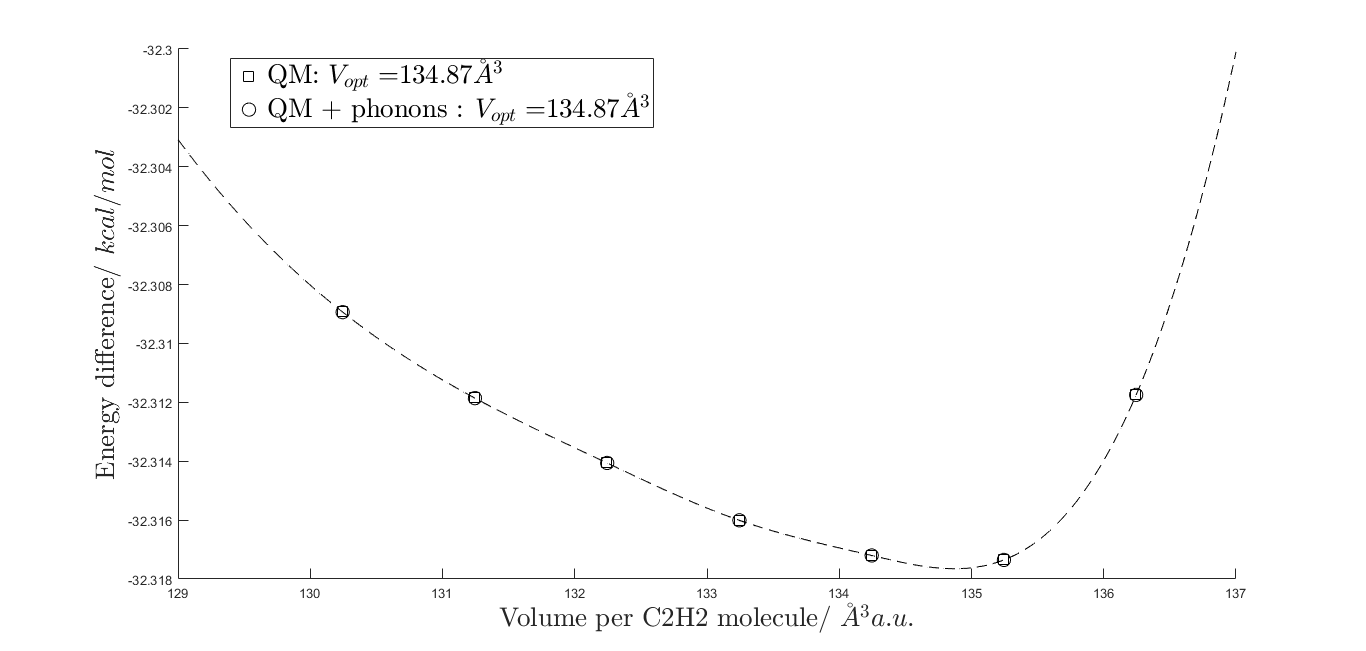
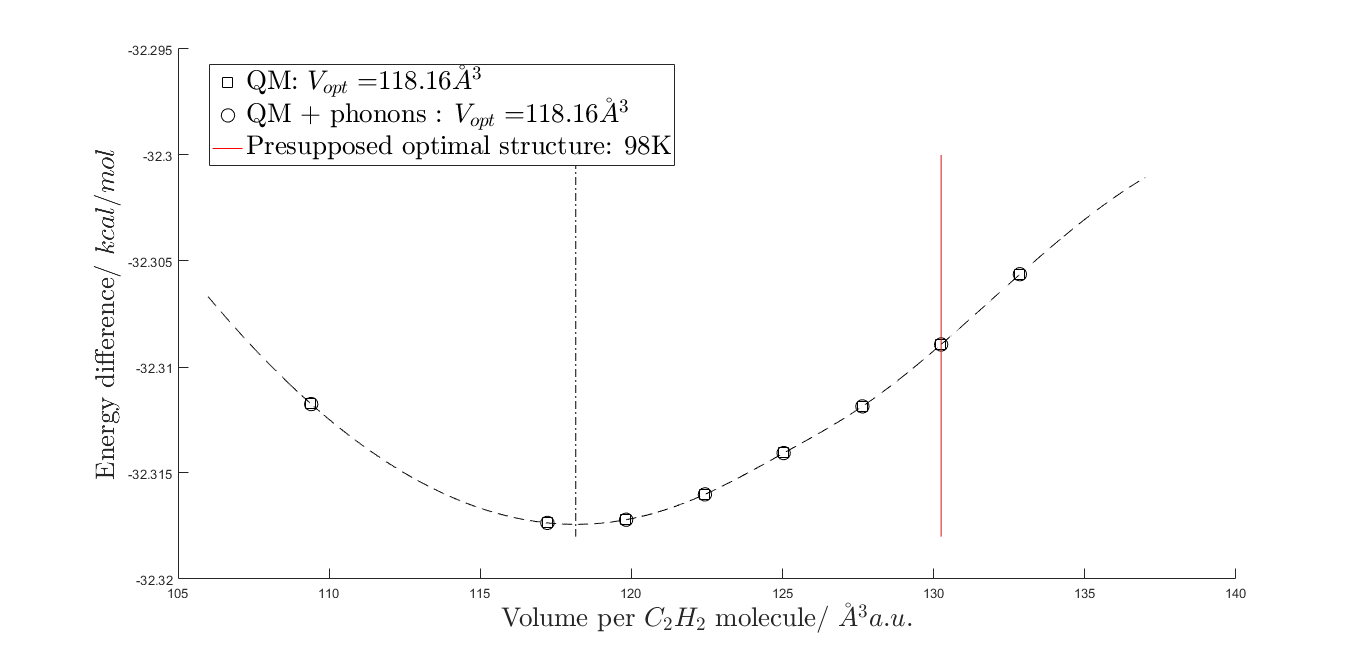
Update QM plot for ethylene

diff --git a/ethylene/data/two_body.m b/ethylene/data/two_body.m
@@ -25,7 +25,7 @@ if true == RMdata
 %     EXPfull_optimized=EXPfull_optimized([1:RMidx-1,RMidx+1:end]);
 end
 % 
-xx = 129: 0.01: 137; %intrapolation range
+xx = 106: 0.01: 137; %intrapolation range
 % 
 figure; hold on;
 x_search= xx;
@@ -73,21 +73,23 @@ x_min_PN = x_search(find(y_search == min(y_search)))
 %     '$\textbf{Z}\exp(\textbf{A}r)$    $\textbf{C}_6$,$R_0$', ...
 %     '$\textbf{Z}\exp(\textbf{A}r)\cdot\exp(-\textbf{C}r^\textbf{n}+\textbf{D}r)$   $\textbf{C}_6$,$R_0$' ...
 %     );
-
+presupposed = plot([130.2452 130.2452], ylim, 'r-');
 h = legend([plotQM, ... 
-    plotQMph], ...
+    plotQMph,...
+    presupposed], ...
     ['QM: $V_{opt}=$' num2str(x_min_QM) '$\AA^3$'], ...
-    ['QM + phonons : $V_{opt}=$' num2str(x_min_PN) '$\AA^3$'] ...
+    ['QM + phonons : $V_{opt}=$' num2str(x_min_PN) '$\AA^3$'], ...
+    ['Presupposed optimal structure: 98K']...
     );
 % 
 % h = legend([plotQM, ... 
 %     plotQMph, presupposed], ...
 %     ['QM: $C_{opt}=$' num2str(x_min_QM) '$\AA$'], ...
 %     ['QM + phonons : $C_{opt}=$' num2str(x_min_PN) '$\AA$'], ...
-%     ['Presupposed optimal structure']);
+%     ['Presupposed optimal structure: 98K']);
 
 
-% plot([x_min_QM x_min_QM], ylim, 'k-.');
+plot([x_min_QM x_min_QM], ylim, 'k-.');
 % plot([x_min_PN x_min_PN], ylim, 'k-.');
 % 
 % 
@@ -95,7 +97,7 @@ set(h, 'fontsize', 20);
 set(h, 'Location', 'Best');
 set(h,'interpreter','latex');
 % 
-h = xlabel('Volume per C2H2 molecule/ $\AA^3 a.u.$');
+h = xlabel('Volume per $C_2H_2$ molecule/ $\AA^3 a.u.$');
 set(h,'interpreter','latex');
 set(h, 'fontsize', 20);
 set(h, 'fontweight', 'bold');
